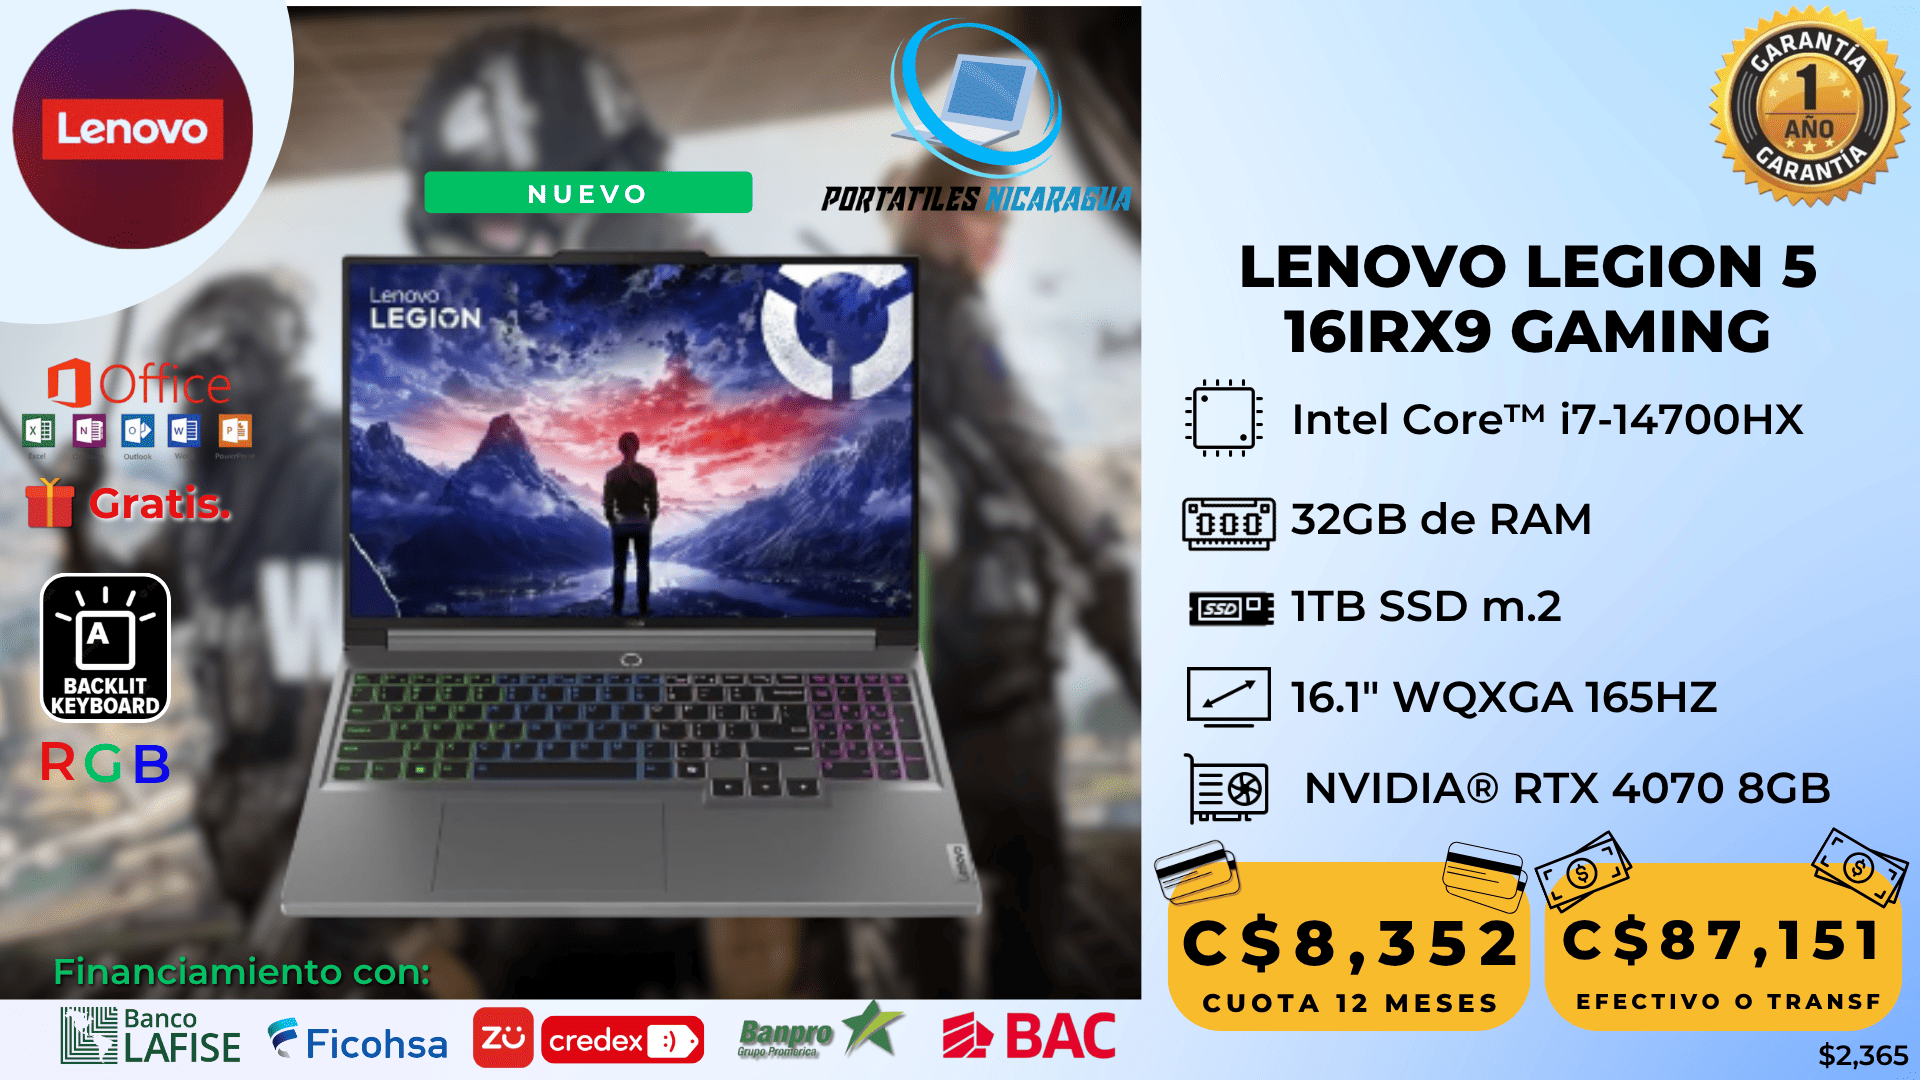
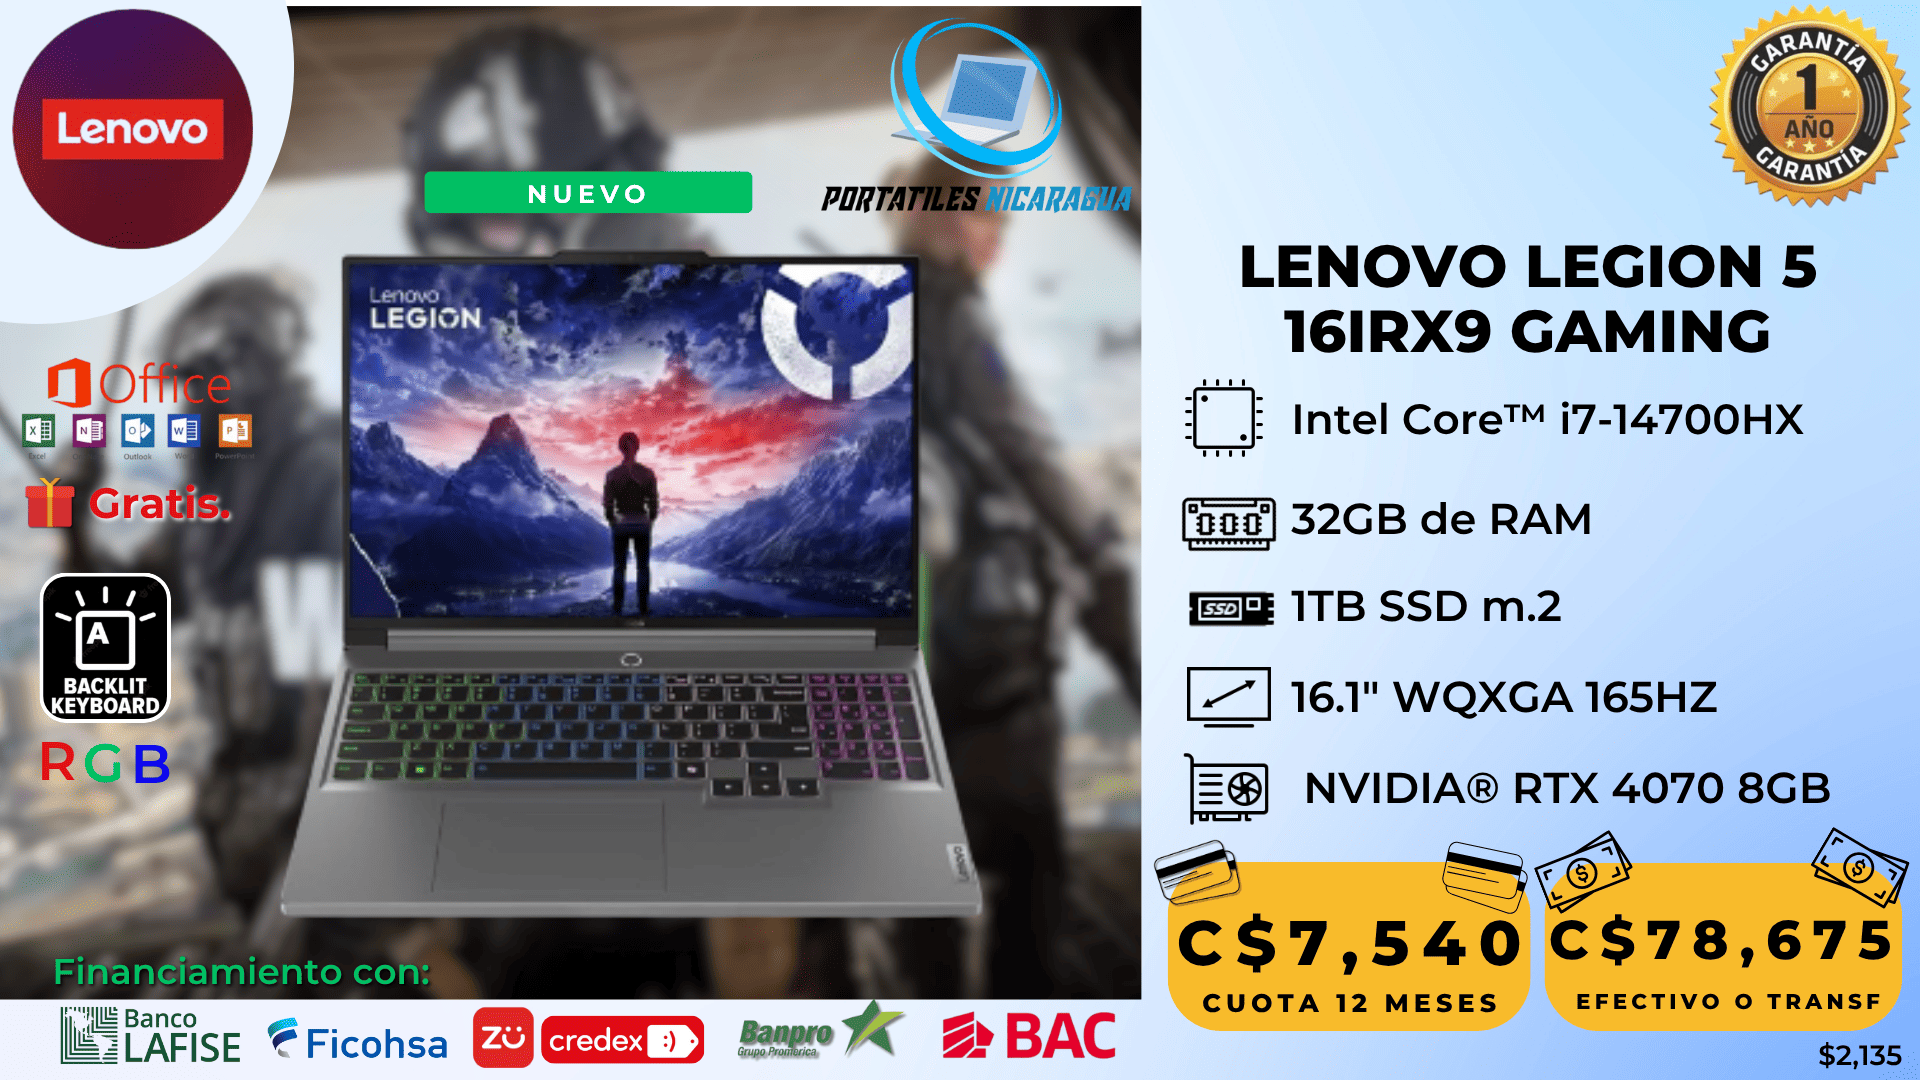
GAMER

diff --git a/index.html b/index.html
@@ -1313,20 +1313,20 @@
                         /* FLENOVO */
                         
                                   /* eGAMING */
-
             {
-                imagen: "assets/laptops/gamer/1.png",
-                nombre: "HP Victus 15-fb2063dx Gaming",
-                procesador: "AMD Ryzen 5 7535HS",
+                imagen: "assets/laptops/gamer/MSI GF63 THIN GAMING 825.png",
+                nombre: "MSI GF63 THIN GAMING",
+                procesador: "Core™ i5-12450H",
                 ram: "8GB",
-                almacenamiento: "512GB SSD",
-                grafica: "Radeon RX 6550M 4GB",
-                pantalla: "15.6'' (1920x1080)",
+                almacenamiento: "1TB SSD",
+                grafica: "NVIDIA® RTX 2050 4096MB",
+                pantalla: "15.6\" (1920x1080) 144Hz",
                 teclado: "Iluminado",
                 categoria: "gamer",
-                marca: "hp",
-                precio: 835,
+                marca: "msi",
+                precio: 845,
             },
+
             {
                 imagen: "assets/laptops/gamer/2.png",
                 nombre: "HP Pavilion TP01-5029",
@@ -1341,17 +1341,30 @@
                 precio: 845,
             },
             {
-                imagen: "assets/laptops/gamer/4.png",
-                nombre: "HP Victus 15-fa1030 Gaming",
-                procesador: "Intel Core i5-12450H",
-                ram: "8GB",
-                almacenamiento: "512GB SSD",
-                grafica: "NVIDIA RTX 2050 4GB",
-                pantalla: "15.6\" (1920x1080) 144Hz IPS",
+                imagen: "assets/laptops/gamer/MSI GF63 THIN GAMING 995.png",
+                nombre: "MSI GF63 THIN GAMING",
+                procesador: "Core™ i5-12450H",
+                ram: "16GB",
+                almacenamiento: "1TB SSD",
+                grafica: "NVIDIA® RTX 2050 4096MB",
+                pantalla: "15.6\" (1920x1080) 144Hz",
                 teclado: "Iluminado",
                 categoria: "gamer",
-                marca: "hp",
-                precio: 915,
+                marca: "msi",
+                precio: 880,
+            },
+            {
+                imagen: "assets/laptops/gamer/LENOVO LOQ 15IAX9E GAMING 895.png",
+                nombre: "LENOVO LOQ 15IAX9E GAMING",
+                procesador: "Core™ i5-12450HX",
+                ram: "8GB",
+                almacenamiento: "512GB SSD",
+                grafica: "NVIDIA® RTX 2050 4096MB",
+                pantalla: "15.6\" (1920x1080) 144Hz",
+                teclado: "Iluminado",
+                categoria: "gamer",
+                marca: "lenovo",
+                precio: 895,
             },
             {
                 imagen: "assets/laptops/gamer/5.png",
@@ -1380,6 +1393,32 @@
                 precio: 975,
             },
             {
+                imagen: "assets/laptops/gamer/HP VICTUS 15-FA2013 GAMING 1025.png",
+                nombre: "HP VICTUS 15-FA2013 GAMING",
+                procesador: "Core™ i5-13420H",
+                ram: "8GB",
+                almacenamiento: "512GB SSD",
+                grafica: "NVIDIA® RTX 3050 6144MB",
+                pantalla: "15.6\" (1920x1080) 144Hz",
+                teclado: "Iluminado",
+                categoria: "gamer",
+                marca: "hp",
+                precio: 1025,
+            },
+            {
+                imagen: "assets/laptops/gamer/MSI THIN 15 B13UC-1000 GAMING 1025.png",
+                nombre: "MSI THIN 15 B13UC-1000 GAMING",
+                procesador: "Core™ i5-13420H",
+                ram: "16GB",
+                almacenamiento: "512GB SSD",
+                grafica: "NVIDIA® RTX 3050 4096MB",
+                pantalla: "15.6\" (1920x1080) 144Hz IPS",
+                teclado: "Iluminado",
+                categoria: "gamer",
+                marca: "msi",
+                precio: 1025,
+            },
+            {
                 imagen: "assets/laptops/gamer/7.png",
                 nombre: "DELL G15 5530 GAMING",
                 procesador: "Core™ i5-13450HX",
@@ -1406,6 +1445,32 @@
                 precio: 1075
             }, 
             {
+                imagen: "assets/laptops/gamer/HP VICTUS 15-FA2013 GAMING 1080.png",
+                nombre: "HP VICTUS 15-FA2013 GAMING",
+                procesador: "Core™ i5-13420H",
+                ram: "16GB",
+                almacenamiento: "512GB SSD",
+                grafica: "NVIDIA® RTX 3050 6144MB",
+                pantalla: "15.6\" (1920x1080) 144Hz",
+                teclado: "Iluminado",
+                categoria: "gamer",
+                marca: "hp",
+                precio: 1080,
+            },
+            {
+                imagen: "assets/laptops/gamer/MSI PULSE GL66 GAMING 1125.png",
+                nombre: "MSI PULSE GL66 GAMING",
+                procesador: "Core™ i7-12700H",
+                ram: "16GB",
+                almacenamiento: "512GB SSD",
+                grafica: "NVIDIA® RTX 3060 6GB",
+                pantalla: "15.6\" (1920x1080) 144Hz",
+                teclado: "Iluminado",
+                categoria: "gamer",
+                marca: "msi",
+                precio: 1125,
+            },
+            {
                 imagen: "assets/laptops/gamer/8.png",
                 nombre: "HP Victus 15-fb2082 Gaming",
                 procesador: "AMD Ryzen 5 8645HS",
@@ -1417,19 +1482,6 @@
                 categoria: "gamer",
                 marca: "hp",
                 precio: 1135,
-            },
-            {
-                imagen: "assets/laptops/gamer/9.png",
-                nombre: "HP Envy 17-CR1000",
-                procesador: "Core™ i7-1355U",
-                ram: "16GB",
-                almacenamiento: "1TB SSD",
-                grafica: "NVIDIA® RTX 3050 4096MB",
-                pantalla: "17.3\" (1920x1080)",
-                teclado: "ILUMINADO",
-                categoria: "gamer",
-                marca: "hp",
-                precio: 1145,
             },
             {
                 imagen: "assets/laptops/gamer/10.png",
@@ -1471,6 +1523,19 @@
                 precio: 1175,
             },
             {
+                imagen: "assets/laptops/gamer/LENOVO PRO 5 16IMH9 GAMING 1215.png",
+                nombre: "LENOVO PRO 5 16IMH9 GAMING",
+                procesador: "Core™ Ultra 7 155H",
+                ram: "16GB",
+                almacenamiento: "1TB SSD",
+                grafica: "NVIDIA® RTX 3050 6144MB",
+                pantalla: "16\" (2048x1280) OLED TACTIL 120Hz",
+                teclado: "Iluminado",
+                categoria: "gamer",
+                marca: "lenovo",
+                precio: 1215,
+            },
+            {
                 imagen: "assets/laptops/gamer/13.png",
                 nombre: "HP ENVY 17-CW1023CL",
                 procesador: "CORE™ ULTRA 7 155U 1.0GHZ",
@@ -1481,19 +1546,6 @@
                 teclado: "Iluminado",
                 categoria: "gamer",
                 marca: "hp",
-                precio: 1250,
-            },
-            {
-                imagen: "assets/laptops/gamer/14.png",
-                nombre: "DELL G15 5530 GAMING",
-                procesador: "CORE™ I5-13450HX",
-                ram: "16GB",
-                almacenamiento: "1TB SSD",
-                grafica: "NVIDIA® RTX 4050 6144MB",
-                pantalla: "15.6\" (1920x1080) 3ms 165Hz",
-                teclado: "Iluminado",
-                categoria: "gamer",
-                marca: "dell",
                 precio: 1250,
             },
             {
@@ -1508,19 +1560,6 @@
                 categoria: "gamer",
                 marca: "hp",
                 precio: 1445,
-            },
-            {
-                imagen: "assets/laptops/gamer/LENOVO LOQ 15IAX9E GAMING 1445.png",
-                nombre: "LENOVO LOQ 15IAX9E ",
-                procesador: "Core™ i7-12650HX",
-                ram: "16GB",
-                almacenamiento: "512GB SSD",
-                grafica: "NVIDIA® RTX 4050 6144MB",
-                pantalla: "15.6\" (1920x1080) 144Hz IPS",
-                teclado: "Iluminado",
-                categoria: "gamer",
-                marca: "lenovo",
-                precio: 1445
             }, 
             {
                 imagen: "assets/laptops/gamer/16.png",
@@ -1536,6 +1575,19 @@
                 precio: 1495,
             },
             {
+                imagen: "assets/laptops/gamer/MSI THIN A15 AI B8VF-270 GAMING 1495.png",
+                nombre: "MSI THIN A15 AI B8VF-270 GAMING",
+                procesador: "Ryzen™ 9 8945HS",
+                ram: "16GB",
+                almacenamiento: "1TB SSD",
+                grafica: "NVIDIA® RTX 4060 8192MB",
+                pantalla: "15.6\" (1920x1080) 144Hz IPS",
+                teclado: "Iluminado",
+                categoria: "gamer",
+                marca: "msi",
+                precio: 1495,
+            },
+            {
                 imagen: "assets/laptops/gamer/17.png",
                 nombre: "HP OMEN 16-AE0457 GAMING",
                 procesador: "Core™ i7-14650HX",
@@ -1547,6 +1599,19 @@
                 categoria: "gamer",
                 marca: "hp",
                 precio: 1570,
+            },
+            {
+                imagen: "assets/laptops/gamer/MSI KATANA 15 GAMING 1595.png",
+                nombre: "MSI KATANA 15 GAMING",
+                procesador: "Core™ i7-12650H",
+                ram: "16GB",
+                almacenamiento: "1TB SSD",
+                grafica: "NVIDIA® RTX 4070 8GB",
+                pantalla: "15.6\" (1920x1080) 144Hz",
+                teclado: "Iluminado",
+                categoria: "gamer",
+                marca: "msi",
+                precio: 1595,
             },
             {
                 imagen: "assets/laptops/gamer/18.png",
@@ -1588,19 +1653,6 @@
                 precio: 1645,
             },
             {
-                imagen: "assets/laptops/gamer/21.png",
-                nombre: "MSI KATANA 15 B13VFK-2049 GAMING",
-                procesador: "CORE™ I7-13620H",
-                ram: "16GB",
-                almacenamiento: "1TB SSD",
-                grafica: "NVIDIA® RTX 4060 8192MB",
-                pantalla: "15.6\" (1920x1080) 144Hz IPS",
-                teclado: "Iluminado RGB",
-                categoria: "gamer",
-                marca: "msi",
-                precio: 1825,
-            },
-            {
                 imagen: "assets/laptops/gamer/22.png",
                 nombre: "HP OMEN 17-CK1797 GAMING",
                 procesador: "Core™ i7-12700HX",
@@ -1614,6 +1666,19 @@
                 precio: 1645,
             },
             {
+                imagen: "assets/laptops/gamer/MSI KATANA 15 GAMING 1725.png",
+                nombre: "MSI KATANA 15 GAMING",
+                procesador: "Core™ i7-12650H",
+                ram: "32GB",
+                almacenamiento: "1TB SSD",
+                grafica: "NVIDIA® RTX 4070 8GB",
+                pantalla: "15.6\" (1920x1080) 144Hz",
+                teclado: "Iluminado",
+                categoria: "gamer",
+                marca: "msi",
+                precio: 1725,
+            },
+            {
                 imagen: "assets/laptops/gamer/LENOVO LEGION 5 16IRX9 2225.png",
                 nombre: "LENOVO LEGION 5 16IRX9",
                 procesador: "Core™ i9-14900HX",
@@ -1624,7 +1689,7 @@
                 teclado: "Iluminado RGB",
                 categoria: "gamer",
                 marca: "lenovo",
-                precio: 2225
+                precio: 2135
             },
             {
                 imagen: "assets/laptops/gamer/23.png",
@@ -1637,8 +1702,21 @@
                 teclado: "RGB Backlit",
                 categoria: "gamer",
                 marca: "lenovo",
+                precio: 2135,
+            },  
+            {
+                imagen: "assets/laptops/gamer/ASUS ROG STRIX G16 GAMING 2345.png",
+                nombre: "ASUS ROG STRIX G16 GAMING",
+                procesador: "AMD RYZEN™ 9 9955HX",
+                ram: "16GB",
+                almacenamiento: "1TB SSD",
+                grafica: "NVIDIA® RTX 5060 8192MB",
+                pantalla: "16\" (1920x1200) 165Hz",
+                teclado: "Iluminado",
+                categoria: "gamer",
+                marca: "asus",
                 precio: 2365,
-            },   
+            }, 
 
                             /* fGAMER */
         ];
